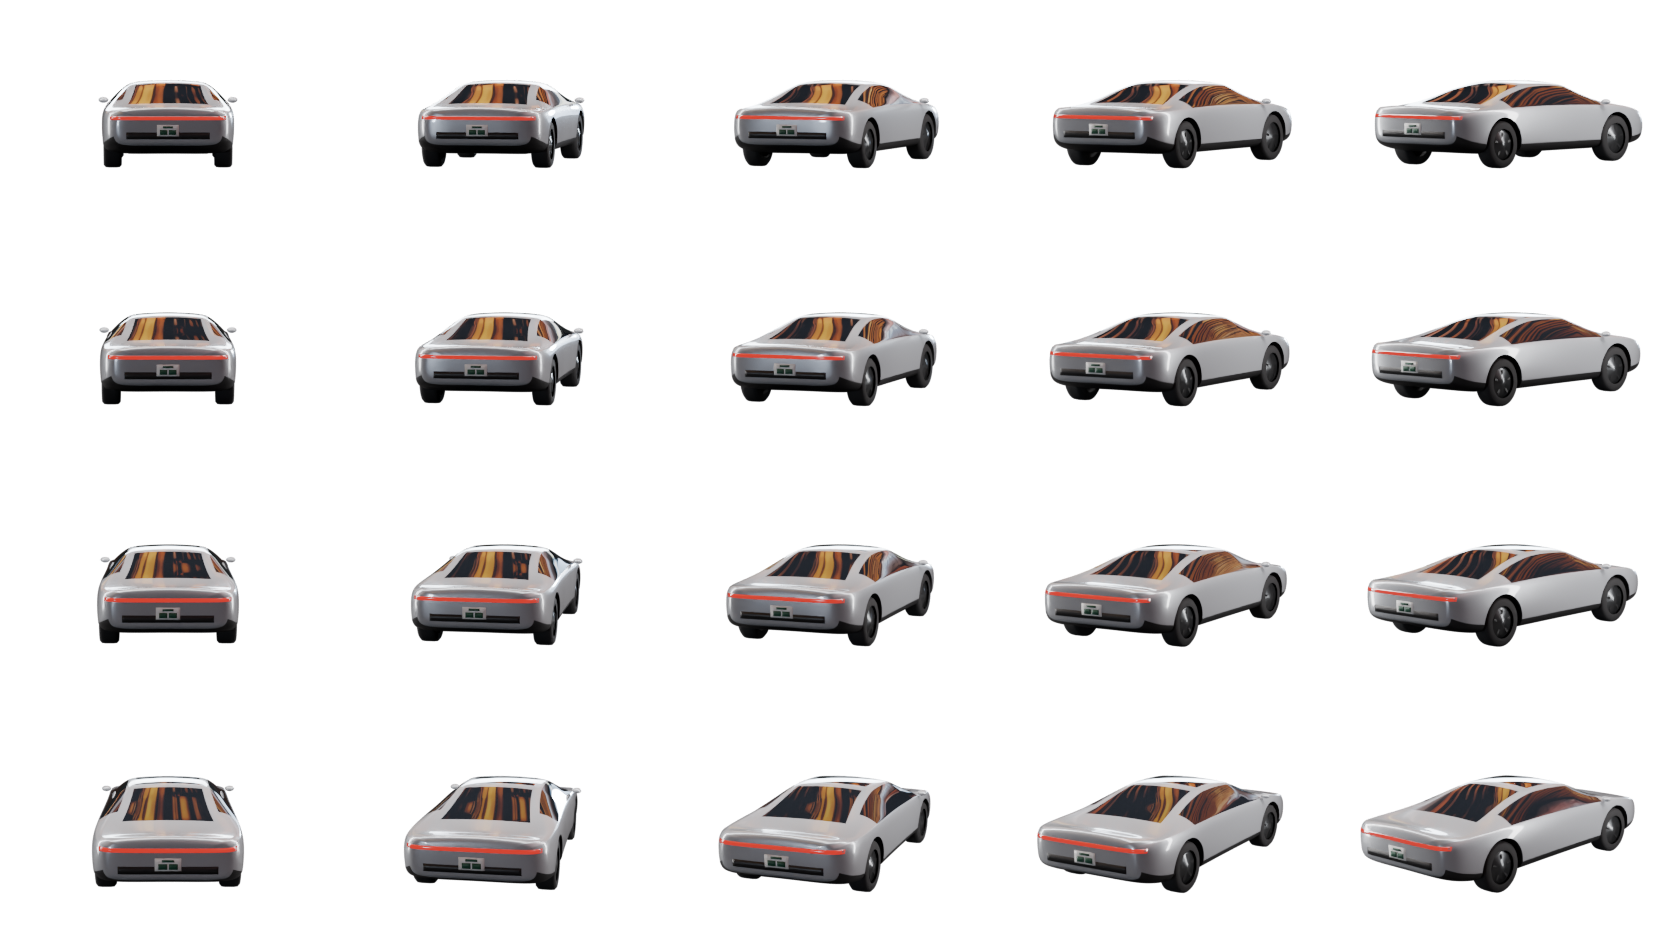
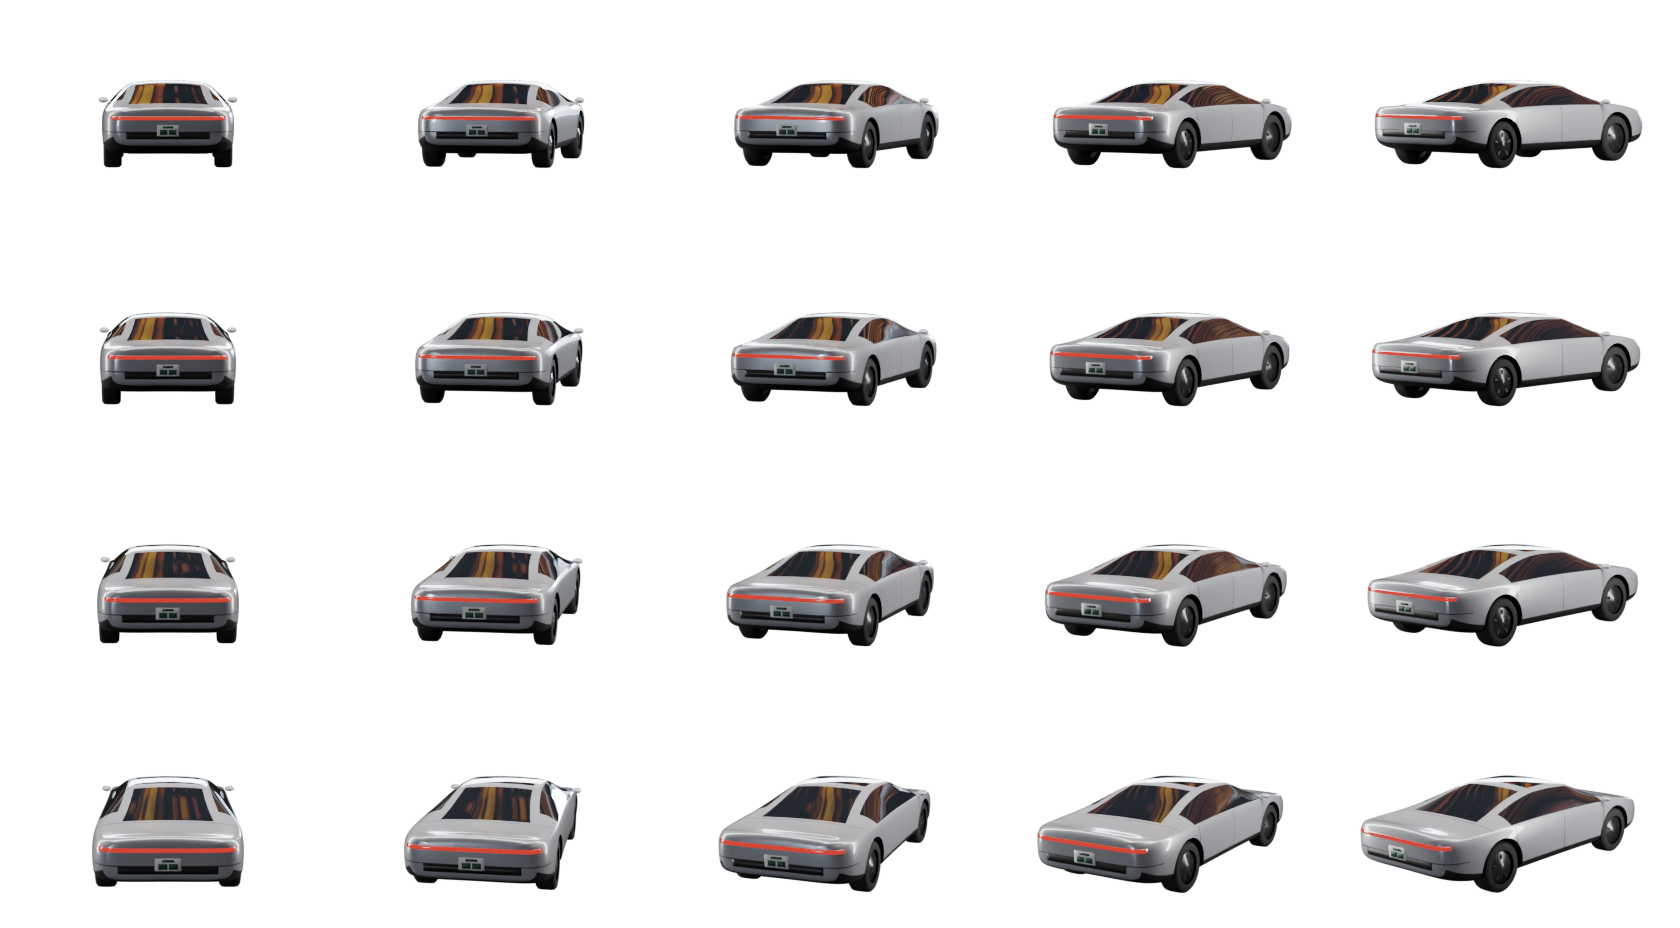
TeslaAdas: car images with shut lines and the dimmer tunnel card (second cloud run)
The seven car images from the cloud lane's run of the ego, parked and traffic jobs at
355c97c, fetched from the Drive masters folder and checked by SHA-256 (ASSETS.md).

diff --git a/assets/clusters/tesla_adas/ASSETS.md b/assets/clusters/tesla_adas/ASSETS.md
@@ -1,6 +1,6 @@
 # TeslaAdas assets
 
-These files are built by `cargo run --release -p asset-forge -- --lane cloud build --set tesla_adas` from `tools/asset-forge/src/recipes/tesla_adas.rs`. Don't edit them by hand: change the recipe and rebuild. The committed set is one run on the cloud lane's RTX 4090 (28 Nov 2026, 04:55 to 05:04 UTC).
+These files are built by `cargo run --release -p asset-forge -- --lane cloud build --set tesla_adas` from `tools/asset-forge/src/recipes/tesla_adas.rs`. Don't edit them by hand: change the recipe and rebuild. The committed set is two runs on the cloud lane's RTX 4090: `tunnel_lights.png` from the first (28 Nov 2026, 04:55 to 05:04 UTC), the seven car images from the second (28 Nov 2026, about 05:55 to 06:04 UTC, jobs `ego`, `parked` and `traffic` after the shut lines were added).
 
 The ledger rows are also in `assets/ASSETS.md`. The dash draws a plain fallback for each image, used when `setup.assets` is `None` or the file is missing.
 
@@ -37,7 +37,7 @@ Copied from the build's scratch folders after the cloud run (the run was started
 | `tesla_adas_ego/` | `beauty_0.png` to `beauty_10.png`, `glow_0.exr` to `glow_10.exr`, `brake_0.exr` to `brake_10.exr` | The 11 yaw renders of the ego car, one per atlas cell, and the linear glow and brake passes. Masters of `ego.png`, `ego_glow.png`, `ego_brake.png`. |
 | `tesla_adas_parked/` | `parked.png` | The parked view as Blender wrote it, before the recipe's post. Master of `ego_parked.png`. |
 | `tesla_adas_traffic/` | `sedan_<e>_<h>.png`, `sport_<e>_<h>.png`, `kei_<e>_<h>.png` (elevation 0 to 3, heading 0 to 4; 60 files) | One render per atlas cell. Masters of the three traffic atlases. |
-| `runtime/` | the eight PNGs of this folder | Byte-identical copies of the runtime files (the route the cloud thread used to fetch them). |
+| `runtime/`, `runtime_v3/` | the runtime PNGs of each run | Byte-identical copies of the runtime files (the route the cloud thread used to fetch them); `runtime_v3/` holds the seven car images committed now. |
 | `boards/` | `cockpit_1_idle.png` to `hood_4_drift-braking.png` (8 files) | The Penpot boards of page `07 · TeslaAdas`, exported at 3840 × 2160. |
 | `before/` | the old build's review set | The dash on `main` before this rebuild (`preview-export --cluster TeslaAdas` at the start of the thread). |
 
@@ -45,13 +45,13 @@ SHA-256 of the runtime files as committed:
 
 | File | SHA-256 |
 |---|---|
[15 lines of base64/hex data omitted]
 
 ## The Japanese label face
